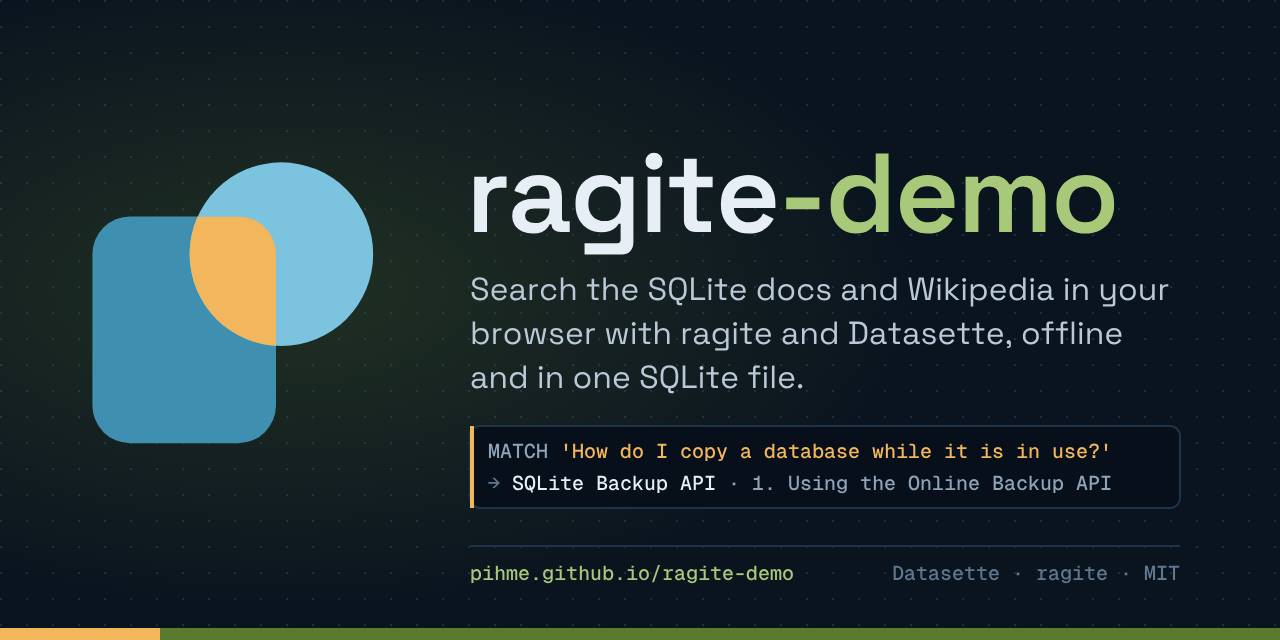
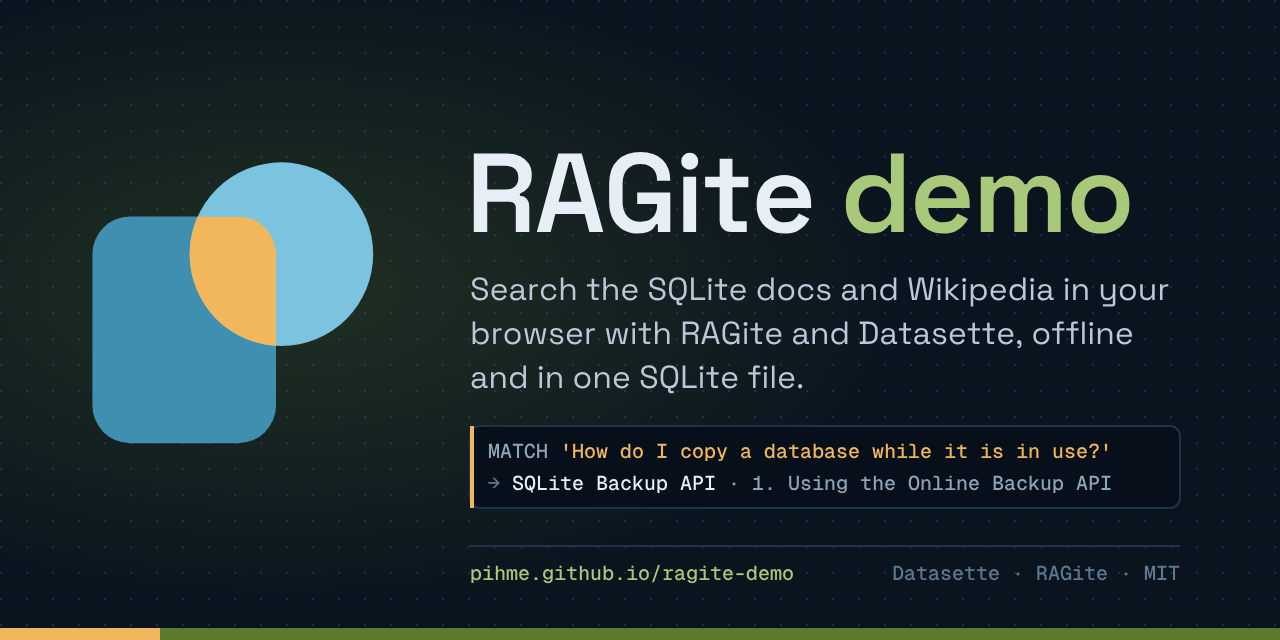
feat(data): add RAGite guides and Wikipedia articles on RAG and search (#9)
* feat(data): index the ragite user guide and tinkering guide

Add docs/guide.md and docs/tinkering.md to the ragite-docs collection and
move the pinned ragite commit to c1165ea, which has both files. Since the
0.3.0 release only docs, tests and CI changed, so the docs still match the
pinned libragite.so.

With the guide indexed, 'virtual table' limited to ragite-docs now finds a
passage, so the test, screenshot check and README use 'FTS5' to show the
source-filter limit (pihme/ragite#49) instead. The search page gets an
example question for the tinkering guide.

* feat(data): add Wikipedia articles on RAG, search and embeddings

Index 15 more pinned Wikipedia revisions so the demo can answer questions
about the topic ragite is built for: Retrieval-augmented generation (en, de),
Large language model, Information retrieval, Semantic search, Full-text
search, Inverted index, Okapi BM25, Tf-idf, Word embedding, Sentence
embedding, Cosine similarity, Vector database, Nearest neighbor search and
Hierarchical navigable small world. All are CC BY-SA 4.0 like the existing
articles and go through the same cleaning; DATA_SOURCES.md lists each
revision and now also says that math formulas are removed.

demo.db grows from 22 to 25 MB (8,751 chunks). The search page offers two
example questions for the new articles.

* feat(data): show the ragite docs titles as RAGite
[…]

Changed region(s): [[0.3438, 0.2188, 0.9062, 0.4062], [0.5312, 0.5, 0.875, 0.5625], [0.8125, 0.875, 0.8438, 0.9062]]

diff --git a/app/templates/pages/search.html b/app/templates/pages/search.html
@@ -1,6 +1,6 @@
 {% extends "base.html" %}
 
-{% block title %}Ask the docs · ragite-demo{% endblock %}
+{% block title %}Ask the docs · RAGite demo{% endblock %}
 
 {% block extra_head %}
 <link rel="stylesheet" href="{{ urls.path('/static/search.css') }}">
@@ -13,7 +13,7 @@
 <div class="rs" id="ragite-search" data-db="{{ urls.database('demo') }}">
   <div class="rs-hero">
     <h1 class="rs-title">Ask the docs</h1>
-    <p class="rs-lede">Hybrid search over the SQLite documentation, five Wikipedia articles and the ragite docs,
+    <p class="rs-lede">Hybrid search over the SQLite documentation, 20 Wikipedia articles and the RAGite docs,
       all in one SQLite file. The embeddings are computed on the CPU; no external AI service is called.</p>
   </div>
 
@@ -31,7 +31,7 @@
       <label class="rs-chip"><input type="radio" name="collection" value="" checked><span>All sources</span></label>
       <label class="rs-chip"><input type="radio" name="collection" value="sqlite-docs"><span>SQLite docs</span></label>
       <label class="rs-chip"><input type="radio" name="collection" value="wikipedia"><span>Wikipedia</span></label>
-      <label class="rs-chip"><input type="radio" name="collection" value="ragite-docs"><span>ragite docs</span></label>
+      <label class="rs-chip"><input type="radio" name="collection" value="ragite-docs"><span>RAGite docs</span></label>
     </fieldset>
   </form>
 
@@ -47,8 +47,11 @@
       <li><a href="?q=What+is+write-ahead+logging%3F"><span class="rs-ex-src">SQLite docs</span>What is write-ahead logging?</a></li>
       <li><a href="?q=change+the+output+mode+of+the+command+line+shell"><span class="rs-ex-src">SQLite docs</span>Change the output mode of the command-line shell</a></li>
       <li><a href="?q=Who+uses+B-trees+and+why%3F"><span class="rs-ex-src">Wikipedia</span>Who uses B-trees and why?</a></li>
+      <li><a href="?q=What+is+retrieval-augmented+generation%3F"><span class="rs-ex-src">Wikipedia</span>What is retrieval-augmented generation?</a></li>
+      <li><a href="?q=How+does+BM25+rank+documents%3F"><span class="rs-ex-src">Wikipedia</span>How does BM25 rank documents?</a></li>
       <li><a href="?q=Wie+gro%C3%9F+ist+die+SQLite-Bibliothek%3F&amp;collection=wikipedia"><span class="rs-ex-src">Wikipedia · German</span>Wie groß ist die SQLite-Bibliothek?</a></li>
-      <li><a href="?q=How+does+ragite+split+documents+into+chunks%3F"><span class="rs-ex-src">ragite docs</span>How does ragite split documents into chunks?</a></li>
+      <li><a href="?q=How+does+RAGite+split+documents+into+chunks%3F"><span class="rs-ex-src">RAGite docs</span>How does RAGite split documents into chunks?</a></li>
+      <li><a href="?q=How+do+I+add+a+new+document+type%3F"><span class="rs-ex-src">RAGite docs</span>How do I add a new document type?</a></li>
     </ul>
 
     <section class="rs-how" aria-labelledby="rs-how-h">
@@ -61,7 +64,7 @@
         <div class="rs-how-step"><span class="rs-how-ico rs-how-ico--hit" aria-hidden="true"></span><h3>Fused</h3>
           <p>Reciprocal Rank Fusion merges both rankings. A passage that is high in both comes first: that's the hit.</p></div>
       </div>
-      <p class="rs-how-foot">All of it is one query against ragite's <code>docs_chunks</code> table:
+      <p class="rs-how-foot">All of it is one query against RAGite's <code>docs_chunks</code> table:
         <code>WHERE docs_chunks MATCH 'your question'</code>. Every search links to its SQL.</p>
     </section>
   </div>
@@ -70,10 +73,10 @@
 
 {% block footer %}
 <div class="rs-foot">
-  Powered by <a href="https://datasette.io/">Datasette</a> and <a href="https://github.com/pihme/ragite">ragite</a>
+  Powered by <a href="https://datasette.io/">Datasette</a> and <a href="https://github.com/pihme/ragite">RAGite</a>
   · Data license: <a href="https://github.com/pihme/ragite-demo/blob/main/DATA_SOURCES.md">Mixed, see DATA_SOURCES.md</a>
-  (SQLite docs: public domain · Wikipedia: <a href="https://creativecommons.org/licenses/by-sa/4.0/">CC BY-SA 4.0</a>, authors in each article's history · ragite docs: MIT OR Apache-2.0)
-  · Data source: <a href="https://github.com/pihme/ragite-demo">ragite-demo</a>
+  (SQLite docs: public domain · Wikipedia: <a href="https://creativecommons.org/licenses/by-sa/4.0/">CC BY-SA 4.0</a>, authors in each article's history · RAGite docs: MIT OR Apache-2.0)
+  · Data source: <a href="https://github.com/pihme/ragite-demo">RAGite demo</a>
   · About: <a href="https://pihme.github.io/ragite-demo/">Project site</a>
 </div>
 {% endblock %}

diff --git a/app/static/search.js b/app/static/search.js
@@ -22,7 +22,7 @@
   // 1/61; one found by both scores at least 2/110. So score > 1/61 means "both rankings found it".
   const ONE_LIST_MAX = 1 / 61;
 
-  const COLLECTION_LABEL = { "sqlite-docs": "SQLite docs", wikipedia: "Wikipedia", "ragite-docs": "ragite docs" };
+  const COLLECTION_LABEL = { "sqlite-docs": "SQLite docs", wikipedia: "Wikipedia", "ragite-docs": "RAGite docs" };
 
   let cache = {};   // q -> { coll -> rows }
   let shown = PAGE;
@@ -97,10 +97,10 @@
     const link = '<a href="' + ISSUE_49 + '">ragite#49</a>';
     if (count < FEW) {
       return "<strong>" + (count ? "Only " + count + (count === 1 ? " passage" : " passages") : "No passages") +
-        " from " + name + " made it into ragite's top candidates.</strong> More may match: the source filter is applied " +
-        "after ragite has picked its best candidates from all sources. Search all sources, or rephrase the question (" + link + ").";
+        " from " + name + " made it into RAGite's top candidates.</strong> More may match: the source filter is applied " +
+        "after RAGite has picked its best candidates from all sources. Search all sources, or rephrase the question (" + link + ").";
     }
-    return "Filtered to " + name + ": ragite picks its best candidates from all sources first, so passages that rank lower " +
+    return "Filtered to " + name + ": RAGite picks its best candidates from all sources first, so passages that rank lower " +
       "overall are not shown here (" + link + ").";
   }
 

diff --git a/app/static/ragite-demo.js b/app/static/ragite-demo.js
@@ -15,8 +15,8 @@
     if (!nav || nav.querySelector(".rd-brand")) return;
     const brand = document.createElement("a");
     brand.className = "rd-brand"; brand.href = "/";
-    brand.innerHTML = MARK + '<span>ragite<span class="rd-suffix">-demo</span></span>';
-    brand.setAttribute("aria-label", "ragite-demo home");
+    brand.innerHTML = MARK + '<span>RAGite<span class="rd-suffix"> demo</span></span>';
+    brand.setAttribute("aria-label", "RAGite demo home");
     const sep = document.createElement("span"); sep.className = "rd-sep"; sep.setAttribute("aria-hidden", "true");
     nav.prepend(brand, sep);
     const crumbs = nav.querySelector(".crumbs");
@@ -33,7 +33,7 @@
   // Canned query pages use the whole SQL as <title>; use the visible heading instead.
   function title() {
     const h1 = document.querySelector("section.content h1");
-    if (h1 && document.title.length > 80) document.title = h1.textContent.trim() + " · ragite-demo";
+    if (h1 && document.title.length > 80) document.title = h1.textContent.trim() + " · RAGite demo";
   }
 
   // Home: "4 tables, 14 hidden tables" is storage noise from ragite's shadow tables.

diff --git a/tests/test_demo.py b/tests/test_demo.py
@@ -245,8 +245,8 @@ async def test_split_paragraph_pieces_both_stay(ds):
 async def test_source_filter_limit_is_real(ds):
     # Documents the limit the search page warns about (pihme/ragite#49): the filter runs after fusion.
     # When ragite fixes it, this test fails and the hint can go.
-    assert await rows(ds, "search", q="virtual table", collection="ragite-docs") == []
+    assert await rows(ds, "search", q="FTS5", collection="ragite-docs") == []
     resp = await ds.client.get("/demo.json", params={"sql": (
         "SELECT count(*) AS n FROM docs_chunks c JOIN doc_info i ON i.doc_id = c.doc_id "
-        "WHERE i.collection = 'ragite-docs' AND lower(c.chunk) LIKE '%virtual table%'"), "_shape": "array"})
+        "WHERE i.collection = 'ragite-docs' AND lower(c.chunk) LIKE '%fts5%'"), "_shape": "array"})
     assert resp.json()[0]["n"] > 0

diff --git a/tests/screenshot.py b/tests/screenshot.py
@@ -78,8 +78,8 @@ def check_page_helpers(page) -> None:
 
 
 def check_filter_hint(page, base: str, out: Path) -> None:
-    """'virtual table' limited to the ragite docs returns no rows (pihme/ragite#49); the page must say why."""
-    page.goto(base + "/search?q=virtual+table&collection=ragite-docs")
+    """'FTS5' limited to the ragite docs returns no rows (pihme/ragite#49); the page must say why."""
+    page.goto(base + "/search?q=FTS5&collection=ragite-docs")
     page.wait_for_selector("#rs-filter-hint:not([hidden])", timeout=30_000)
     hint = page.inner_text("#rs-filter-hint")
     page.screenshot(path=str(out / "search-filter-hint.png"), full_page=False)

diff --git a/README.md b/README.md
@@ -1,27 +1,27 @@
 <h1>
   <picture>
     <source media="(prefers-color-scheme: dark)" srcset="docs/assets/ragite-demo-readme-lockup-dark.svg">
-    <img alt="ragite-demo" src="docs/assets/ragite-demo-readme-lockup-universal.svg" width="400">
+    <img alt="RAGite demo" src="docs/assets/ragite-demo-readme-lockup-universal.svg" width="400">
   </picture>
 </h1>
 
-Search the SQLite docs and Wikipedia in your browser with [ragite](https://github.com/pihme/ragite) and [Datasette](https://datasette.io/), offline and in one SQLite file.
+Search the SQLite docs and Wikipedia in your browser with [RAGite](https://github.com/pihme/ragite) and [Datasette](https://datasette.io/), offline and in one SQLite file.
 
 [![ci](https://img.shields.io/github/actions/workflow/status/pihme/ragite-demo/ci.yml?branch=main&label=ci&style=flat-square)](https://github.com/pihme/ragite-demo/actions/workflows/ci.yml)
 [![license](https://img.shields.io/badge/license-MIT-5c7a2e?style=flat-square)](LICENSE)
-[![ragite](https://img.shields.io/badge/dynamic/json?url=https%3A%2F%2Fraw.githubusercontent.com%2Fpihme%2Fragite-demo%2Fmain%2Fdata%2Fsources.json&query=%24.ragite.version&prefix=v&label=ragite&color=2b6f8a&style=flat-square)](data/sources.json)
+[![RAGite](https://img.shields.io/badge/dynamic/json?url=https%3A%2F%2Fraw.githubusercontent.com%2Fpihme%2Fragite-demo%2Fmain%2Fdata%2Fsources.json&query=%24.ragite.version&prefix=v&label=RAGite&color=2b6f8a&style=flat-square)](data/sources.json)
 
-**[Website](https://pihme.github.io/ragite-demo/)** · [ragite](https://github.com/pihme/ragite) · [Data sources](DATA_SOURCES.md)
+**[Website](https://pihme.github.io/ragite-demo/)** · [RAGite](https://github.com/pihme/ragite) · [Data sources](DATA_SOURCES.md)
 
 ![The search page: a question about copying a live database, answered with passages from the SQLite Backup API docs](docs/search.png)
 
-ragite is a SQLite extension for retrieval: it splits documents into chunks, embeds them on the CPU and finds the best passages with a hybrid search (vector similarity plus BM25 full text). This demo indexes about 1.7 MB of freely licensed text and serves it with Datasette, so you get a search page without writing a web app, and the full SQL interface next to it.
+RAGite is a SQLite extension for retrieval: it splits documents into chunks, embeds them on the CPU and finds the best passages with a hybrid search (vector similarity plus BM25 full text). This demo indexes about 1.9 MB of freely licensed text and serves it with Datasette, so you get a search page without writing a web app, and the full SQL interface next to it.
 
 ## Requirements
 
-- **Linux x86-64.** ragite publishes release binaries for Linux only so far ([pihme/ragite#35](https://github.com/pihme/ragite/issues/35)). On macOS or Windows, use a Linux container or build ragite yourself.
+- **Linux x86-64.** RAGite publishes release binaries for Linux only so far ([pihme/ragite#35](https://github.com/pihme/ragite/issues/35)). On macOS or Windows, use a Linux container or build RAGite yourself.
 - Python 3.10+ whose `sqlite3` module can load extensions (true for most Linux builds; check with `python3 -c "import sqlite3; sqlite3.connect(':memory:').enable_load_extension(True)"`).
-- About 165 MB of disk: `libragite.so` is ~135 MB because the embedding model is built in; `demo.db` is ~22 MB.
+- About 165 MB of disk: `libragite.so` is ~135 MB because the embedding model is built in; `demo.db` is ~25 MB.
 
 ## Quickstart
 
@@ -46,7 +46,7 @@ Only the database, with Datasette's plain table and SQL views:
 datasette app/demo.db --load-extension ./libragite
 ```
 
-Pass the library path **without** `.so`: SQLite adds the suffix itself (see the ragite README). Already have a `libragite.so`? `scripts/build-demo-db --lib /path/to/libragite.so` uses it instead of downloading.
+Pass the library path **without** `.so`: SQLite adds the suffix itself (see the RAGite README). Already have a `libragite.so`? `scripts/build-demo-db --lib /path/to/libragite.so` uses it instead of downloading.
 
 ## What you can do
 
@@ -63,13 +63,13 @@ Pass the library path **without** `.so`: SQLite adds the suffix itself (see the 
 | `model` | `ragite_default_model()` and `ragite_table_model('docs')` | none |
 | `embed` | `ragite_embed('docs', :text, :role)`: dimensions and first bytes | none |
 
-**Rule for `search`** ([SPEC](SPEC.md) D9): A short hit (under 80 characters, usually a bare heading) gets the next chunks of the same document and section as context: chunks that start after it, whose heading path begins with the hit's heading path, and that have at least 40 characters; at most two, and only until the card holds 200 characters. Cards are then taken in score order from the best 60 hits, at most 20. Each displayed piece (the hit, and each context chunk) is a span of the document; a span counts as already shown when at least half of its length lies inside spans displayed by better cards of the same document. A hit is dropped when its own span is already shown (for example the paragraph under a heading card), when it is a short hit whose context is all shown already (a heading whose paragraph is on screen), or when its text, context included, equals a better card's text after trimming and lower-casing (the same sentence on two pages). Context that is already shown is left out of a kept card. Neighbouring pieces of a split paragraph share only ragite's short overlap, so both stay. The `spans` column lists the displayed spans.
+**Rule for `search`** ([SPEC](SPEC.md) D9): A short hit (under 80 characters, usually a bare heading) gets the next chunks of the same document and section as context: chunks that start after it, whose heading path begins with the hit's heading path, and that have at least 40 characters; at most two, and only until the card holds 200 characters. Cards are then taken in score order from the best 60 hits, at most 20. Each displayed piece (the hit, and each context chunk) is a span of the document; a span counts as already shown when at least half of its length lies inside spans displayed by better cards of the same document. A hit is dropped when its own span is already shown (for example the paragraph under a heading card), when it is a short hit whose context is all shown already (a heading whose paragraph is on screen), or when its text, context included, equals a better card's text after trimming and lower-casing (the same sentence on two pages). Context that is already shown is left out of a kept card. Neighbouring pieces of a split paragraph share only RAGite's short overlap, so both stay. The `spans` column lists the displayed spans.
 
-All of them use only ragite's public interface: the Document table, its `_chunks` companion and the `ragite_*` functions. `collection` is empty for all sources, or one of `sqlite-docs`, `wikipedia`, `ragite-docs`.
+All of them use only RAGite's public interface: the Document table, its `_chunks` companion and the `ragite_*` functions. `collection` is empty for all sources, or one of `sqlite-docs`, `wikipedia`, `ragite-docs`.
 
-**Known limit of the source filter** ([pihme/ragite#49](https://github.com/pihme/ragite/issues/49)): ragite takes a fixed number of best candidates from all sources, fuses them, and only then does the query keep the rows of the chosen source. A source that ranks lower overall can come back with few or no passages even though it has matching text; for example `virtual table` limited to `ragite-docs` returns nothing, although 18 ragite-docs chunks contain that phrase. The search page says so whenever a source filter is active. Searching all sources, or rephrasing, helps until ragite lets filters reach past the candidate depth.
+**Known limit of the source filter** ([pihme/ragite#49](https://github.com/pihme/ragite/issues/49)): RAGite takes a fixed number of best candidates from all sources, fuses them, and only then does the query keep the rows of the chosen source. A source that ranks lower overall can come back with few or no passages even though it has matching text; for example `FTS5` limited to `ragite-docs` returns nothing, although 11 ragite-docs chunks contain that word. The search page says so whenever a source filter is active. Searching all sources, or rephrasing, helps until RAGite lets filters reach past the candidate depth.
 
-**More SQL**: [examples/](examples/) has runnable `.sql` files for every part of ragite's public interface: create a table, insert each format, update and delete, search documents and chunks, join a chunk to its document, show the model, embed text.
+**More SQL**: [examples/](examples/) has runnable `.sql` files for every part of RAGite's public interface: create a table, insert each format, update and delete, search documents and chunks, join a chunk to its document, show the model, embed text.
 
 **Raw SQL** (`/demo?sql=...`), for example:
 
@@ -86,18 +86,18 @@ SQLite normally runs the search first and then looks up `doc_info` by `doc_id`. 
 
 | Collection | Documents | Cleaned text | License |
 | --- | --- | --- | --- |
-| SQLite documentation 3.54.1 (subset, incl. the `sqlite3` CLI page) | 74 | 1.54 MB | Public domain |
-| Wikipedia: SQLite (en, de), SQL, Relational database, B-tree | 5 | 0.11 MB | CC BY-SA 4.0 |
-| ragite README, SPEC, GLOSSARY | 3 | 0.05 MB | MIT OR Apache-2.0 |
+| SQLite documentation 3.54.1 (subset, incl. the `sqlite3` CLI page) | 74 | 1.52 MB | Public domain |
+| Wikipedia: SQLite (en, de), SQL, Relational database, B-tree; Retrieval-augmented generation (en, de), Large language model, Information retrieval, Semantic search, Full-text search, Inverted index, Okapi BM25, Tf–idf, Word embedding, Sentence embedding, Cosine similarity, Vector database, Nearest neighbor search, Hierarchical navigable small world | 20 | 0.30 MB | CC BY-SA 4.0 |
+| RAGite README, SPEC, GLOSSARY, user guide, tinkering guide | 5 | 0.09 MB | MIT OR Apache-2.0 |
 
-That is 7,671 chunks and a 22 MB `demo.db` (2 KB of vector per chunk). ragite makes every heading, list item and table cell its own chunk, so the build joins each table row into one paragraph (cells separated by ` | `) and each list of short items into one paragraph (items separated by `; `), and turns no-break spaces into plain spaces. Headings still become short chunks of their own and can rank high for one-word queries. Exact sources, pinned revisions, the cleaning steps and attribution: [DATA_SOURCES.md](DATA_SOURCES.md).
+That is 8,751 chunks and a 25 MB `demo.db` (2 KB of vector per chunk). RAGite makes every heading, list item and table cell its own chunk, so the build joins each table row into one paragraph (cells separated by ` | `) and each list of short items into one paragraph (items separated by `; `), and turns no-break spaces into plain spaces. Headings still become short chunks of their own and can rank high for one-word queries. Exact sources, pinned revisions, the cleaning steps and attribution: [DATA_SOURCES.md](DATA_SOURCES.md).
 
-`demo.db` is not committed: it is a 22 MB binary that the build script recreates from pinned inputs in a few seconds, and keeping the Wikipedia text out of the repository keeps the code under one license. CI uploads each build as an artifact (`demo-db`, with `DATA_SOURCES.md`).
+`demo.db` is not committed: it is a 25 MB binary that the build script recreates from pinned inputs in a few seconds, and keeping the Wikipedia text out of the repository keeps the code under one license. CI uploads each build as an artifact (`demo-db`, with `DATA_SOURCES.md`).
 
 ## Limits
 
 - The built-in model (potion-retrieval-32M) is trained for English. In this small set, German questions still find the German Wikipedia article, but expect weaker ranking for non-English text in general.
-- ragite's full-text side matches the query as one phrase, so long questions usually rank by vector similarity alone; short keyword queries get both.
+- RAGite's full-text side matches the query as one phrase, so long questions usually rank by vector similarity alone; short keyword queries get both.
 - The SQLite docs link to sqlite.org, which may already describe a newer version than 3.54.1.
 
 ## Tests

diff --git a/SPEC.md b/SPEC.md
@@ -2,18 +2,18 @@
 
 ## Goal
 
-Show what ragite does in a few minutes, with no code to write: one command builds a SQLite file from freely licensed text, one command serves it with a search page and the full SQL interface.
+Show what RAGite does in a few minutes, with no code to write: one command builds a SQLite file from freely licensed text, one command serves it with a search page and the full SQL interface.
 
 ## Decisions
 
-- **D1 Datasette as the base.** Datasette loads SQLite extensions, so ragite's `MATCH` queries run in its SQL views and JSON API. The demo adds canned queries (`app/metadata.yml`) and one custom page (`app/templates/pages/search.html`) that calls them; no own web server.
-- **D2 Public interface only.** Every search is ragite's hybrid `MATCH` on `docs` (documents) or `docs_chunks` (chunks); other queries use those two tables and the `ragite_*` functions. No vector-only or full-text-only mode and no queries against ragite's storage tables (`docs_vec`, `docs_fts`, ...): they are not part of the ragite 1.0 spec.
-- **D3 Data.** SQLite documentation (public domain, a 74-page subset of the pinned doc archive), five Wikipedia articles (CC BY-SA 4.0, pinned revisions) and the ragite docs (MIT OR Apache-2.0, pinned commit). Only freely licensed data; no benchmark sets.
-- **D4 demo.db is built, not committed.** It is ~22 MB and rebuilt from pinned inputs in seconds. CI uploads it as an artifact with `DATA_SOURCES.md`.
-- **D5 HTML cleaning before indexing.** Page chrome, navigation, scripts, styles, SVG diagrams, infoboxes, footnote markers and link-only sections are removed so chunks hold prose. Text is not rewritten, with three layout exceptions so ragite does not cut near-empty chunks: each table row becomes one paragraph (cells joined by ` | `), each list whose items are all short (at most 100 characters, no nested blocks) becomes one paragraph (items joined by `; `), and Unicode spaces such as U+00A0 become plain spaces.
-- **D6 Platform.** Linux x86-64 only, until ragite ships other release binaries (pihme/ragite#35).
+- **D1 Datasette as the base.** Datasette loads SQLite extensions, so RAGite's `MATCH` queries run in its SQL views and JSON API. The demo adds canned queries (`app/metadata.yml`) and one custom page (`app/templates/pages/search.html`) that calls them; no own web server.
+- **D2 Public interface only.** Every search is RAGite's hybrid `MATCH` on `docs` (documents) or `docs_chunks` (chunks); other queries use those two tables and the `ragite_*` functions. No vector-only or full-text-only mode and no queries against RAGite's storage tables (`docs_vec`, `docs_fts`, ...): they are not part of the RAGite 1.0 spec.
+- **D3 Data.** SQLite documentation (public domain, a 74-page subset of the pinned doc archive), 20 Wikipedia articles (CC BY-SA 4.0, pinned revisions: SQLite and databases, plus retrieval-augmented generation, search and embeddings) and the RAGite docs (MIT OR Apache-2.0, pinned commit). Only freely licensed data; no benchmark sets.
+- **D4 demo.db is built, not committed.** It is ~25 MB and rebuilt from pinned inputs in seconds. CI uploads it as an artifact with `DATA_SOURCES.md`.
+- **D5 HTML cleaning before indexing.** Page chrome, navigation, scripts, styles, SVG diagrams, infoboxes, footnote markers and link-only sections are removed so chunks hold prose. Text is not rewritten, with three layout exceptions so RAGite does not cut near-empty chunks: each table row becomes one paragraph (cells joined by ` | `), each list whose items are all short (at most 100 characters, no nested blocks) becomes one paragraph (items joined by `; `), and Unicode spaces such as U+00A0 become plain spaces.
+- **D6 Platform.** Linux x86-64 only, until RAGite ships other release binaries (pihme/ragite#35).
 - **D7 License.** Code MIT; data keeps its own license.
 - **D8 Examples.** `examples/` holds runnable SQL for the public interface. Read-only examples are also canned queries; writes are not, so the served `demo.db` cannot be changed from the browser.
-- **D9 Search results: context and each passage once.** The `search` query (`app/metadata.yml`), and with it the search page, works in SQL on `docs_chunks` and `doc_info` only. A short hit (under 80 characters, usually a bare heading) gets the next chunks of the same document and section as context: chunks that start after it, whose heading path begins with the hit's heading path, and that have at least 40 characters; at most two, and only until the card holds 200 characters. Cards are then taken in score order from the best 60 hits, at most 20. Each displayed piece (the hit, and each context chunk) is a span of the document; a span counts as already shown when at least half of its length lies inside spans displayed by better cards of the same document. A hit is dropped when its own span is already shown (for example the paragraph under a heading card), when it is a short hit whose context is all shown already (a heading whose paragraph is on screen), or when its text, context included, equals a better card's text after trimming and lower-casing (the same sentence on two pages). Context that is already shown is left out of a kept card. Neighbouring pieces of a split paragraph share only ragite's short overlap, so both stay. The `spans` column lists the displayed spans.
-- **D10 Search page presentation.** The page shows the `search` rows as cards, five at first and five more per "Show more", all from the one request (at most 20 rows, D9). Source chips (all, SQLite docs, Wikipedia, ragite docs) set the `collection` parameter; only the selected source is fetched, and results are kept per question and source. When a source is selected, the page explains the filter limit (pihme/ragite#49). Relevance is shown as a bar relative to the best card of the search, labelled Best match (the first card), Very close (at least 95 %), Close (at least 85 %) or Related; the raw RRF score is in the tooltip. A card whose score is above 1/61 is marked "meaning + keywords": with k = 60 only a passage found by both rankings can score that high. Query words are highlighted as whole words: a word must start with the term ("vacuum" marks `auto_vacuum` and `VACUUMs`, not `xvacuum`), and marks separated only by a space or hyphen merge. Each card links to the source, its `doc_info` row and its `docs_chunks` row (`chunk_id` from the `search` query).
+- **D9 Search results: context and each passage once.** The `search` query (`app/metadata.yml`), and with it the search page, works in SQL on `docs_chunks` and `doc_info` only. A short hit (under 80 characters, usually a bare heading) gets the next chunks of the same document and section as context: chunks that start after it, whose heading path begins with the hit's heading path, and that have at least 40 characters; at most two, and only until the card holds 200 characters. Cards are then taken in score order from the best 60 hits, at most 20. Each displayed piece (the hit, and each context chunk) is a span of the document; a span counts as already shown when at least half of its length lies inside spans displayed by better cards of the same document. A hit is dropped when its own span is already shown (for example the paragraph under a heading card), when it is a short hit whose context is all shown already (a heading whose paragraph is on screen), or when its text, context included, equals a better card's text after trimming and lower-casing (the same sentence on two pages). Context that is already shown is left out of a kept card. Neighbouring pieces of a split paragraph share only RAGite's short overlap, so both stay. The `spans` column lists the displayed spans.
+- **D10 Search page presentation.** The page shows the `search` rows as cards, five at first and five more per "Show more", all from the one request (at most 20 rows, D9). Source chips (all, SQLite docs, Wikipedia, RAGite docs) set the `collection` parameter; only the selected source is fetched, and results are kept per question and source. When a source is selected, the page explains the filter limit (pihme/ragite#49). Relevance is shown as a bar relative to the best card of the search, labelled Best match (the first card), Very close (at least 95 %), Close (at least 85 %) or Related; the raw RRF score is in the tooltip. A card whose score is above 1/61 is marked "meaning + keywords": with k = 60 only a passage found by both rankings can score that high. Query words are highlighted as whole words: a word must start with the term ("vacuum" marks `auto_vacuum` and `VACUUMs`, not `xvacuum`), and marks separated only by a space or hyphen merge. Each card links to the source, its `doc_info` row and its `docs_chunks` row (`chunk_id` from the `search` query).
 - **D11 Look and feel without template overrides.** Datasette's own pages are restyled by one global stylesheet and one small script (`app/static/ragite-demo.css`, `ragite-demo.js`, via `extra_css_urls` and `extra_js_urls`); the only template is `pages/search.html`. No `base.html` override and no plugins, so Datasette upgrades need no template upkeep; the header navigation is added by the script, and without JavaScript the pages are the restyled Datasette pages. Dark only (`color-scheme: dark`): there is no light variant and no `prefers-color-scheme` switch. Fonts (Space Grotesk, Geist, Geist Mono, SIL OFL 1.1) are Latin subsets served from `app/static/fonts/` with their licences; no third-party requests. The footer keeps "Powered by Datasette". Asset paths are absolute (`/static/...`): the demo is served at the root, not under a `base_url` prefix.

diff --git a/DATA_SOURCES.md b/DATA_SOURCES.md
@@ -24,17 +24,32 @@ Text from Wikipedia, the free encyclopedia, licensed under the [Creative Commons
 | SQL | en | [1374625236](https://en.wikipedia.org/w/index.php?title=SQL&oldid=1374625236) | [history](https://en.wikipedia.org/w/index.php?title=SQL&action=history) |
 | Relational database | en | [1375508962](https://en.wikipedia.org/w/index.php?title=Relational_database&oldid=1375508962) | [history](https://en.wikipedia.org/w/index.php?title=Relational_database&action=history) |
 | B-tree | en | [1377462701](https://en.wikipedia.org/w/index.php?title=B-tree&oldid=1377462701) | [history](https://en.wikipedia.org/w/index.php?title=B-tree&action=history) |
+| Retrieval-augmented generation | en | [1377227095](https://en.wikipedia.org/w/index.php?title=Retrieval-augmented_generation&oldid=1377227095) | [history](https://en.wikipedia.org/w/index.php?title=Retrieval-augmented_generation&action=history) |
+| Retrieval-Augmented Generation | de | [270780895](https://de.wikipedia.org/w/index.php?title=Retrieval-Augmented_Generation&oldid=270780895) | [history](https://de.wikipedia.org/w/index.php?title=Retrieval-Augmented_Generation&action=history) |
+| Large language model | en | [1380435450](https://en.wikipedia.org/w/index.php?title=Large_language_model&oldid=1380435450) | [history](https://en.wikipedia.org/w/index.php?title=Large_language_model&action=history) |
+| Information retrieval | en | [1375036430](https://en.wikipedia.org/w/index.php?title=Information_retrieval&oldid=1375036430) | [history](https://en.wikipedia.org/w/index.php?title=Information_retrieval&action=history) |
+| Semantic search | en | [1376135669](https://en.wikipedia.org/w/index.php?title=Semantic_search&oldid=1376135669) | [history](https://en.wikipedia.org/w/index.php?title=Semantic_search&action=history) |
+| Full-text search | en | [1364195936](https://en.wikipedia.org/w/index.php?title=Full-text_search&oldid=1364195936) | [history](https://en.wikipedia.org/w/index.php?title=Full-text_search&action=history) |
+| Inverted index | en | [1354610034](https://en.wikipedia.org/w/index.php?title=Inverted_index&oldid=1354610034) | [history](https://en.wikipedia.org/w/index.php?title=Inverted_index&action=history) |
+| Okapi BM25 | en | [1372301996](https://en.wikipedia.org/w/index.php?title=Okapi_BM25&oldid=1372301996) | [history](https://en.wikipedia.org/w/index.php?title=Okapi_BM25&action=history) |
+| Tf–idf | en | [1380707612](https://en.wikipedia.org/w/index.php?title=Tf%E2%80%93idf&oldid=1380707612) | [history](https://en.wikipedia.org/w/index.php?title=Tf%E2%80%93idf&action=history) |
+| Word embedding | en | [1374850731](https://en.wikipedia.org/w/index.php?title=Word_embedding&oldid=1374850731) | [history](https://en.wikipedia.org/w/index.php?title=Word_embedding&action=history) |
+| Sentence embedding | en | [1380359878](https://en.wikipedia.org/w/index.php?title=Sentence_embedding&oldid=1380359878) | [history](https://en.wikipedia.org/w/index.php?title=Sentence_embedding&action=history) |
+| Cosine similarity | en | [1378075969](https://en.wikipedia.org/w/index.php?title=Cosine_similarity&oldid=1378075969) | [history](https://en.wikipedia.org/w/index.php?title=Cosine_similarity&action=history) |
+| Vector database | en | [1374243120](https://en.wikipedia.org/w/index.php?title=Vector_database&oldid=1374243120) | [history](https://en.wikipedia.org/w/index.php?title=Vector_database&action=history) |
+| Nearest neighbor search | en | [1372424608](https://en.wikipedia.org/w/index.php?title=Nearest_neighbor_search&oldid=1372424608) | [history](https://en.wikipedia.org/w/index.php?title=Nearest_neighbor_search&action=history) |
+| Hierarchical navigable small world | en | [1369131893](https://en.wikipedia.org/w/index.php?title=Hierarchical_navigable_small_world&oldid=1369131893) | [history](https://en.wikipedia.org/w/index.php?title=Hierarchical_navigable_small_world&action=history) |
 
 - Retrieved through the MediaWiki API (`action=parse&oldid=<revision>`), so the text is the pinned revision. Templates are expanded by Wikipedia at download time, so the rendered markup may drift slightly when a template changes later.
-- Changes: infoboxes, images, navigation boxes, edit links, footnote markers and the sections that only hold links or citations (for example "See also", "References", "External links"; "Weblinks", "Einzelnachweise" in German) are removed. Table rows and lists of short items are joined into paragraphs and no-break spaces become plain spaces, as for the SQLite documentation. The remaining text is unchanged and is split into chunks by ragite. These changes are an adaptation under CC BY-SA 4.0; the adapted text in `demo.db` is under the same license.
+- Changes: infoboxes, images, math formulas, navigation boxes, edit links, footnote markers and the sections that only hold links or citations (for example "See also", "References", "External links"; "Weblinks", "Einzelnachweise" in German) are removed. Table rows and lists of short items are joined into paragraphs and no-break spaces become plain spaces, as for the SQLite documentation. The remaining text is unchanged and is split into chunks by RAGite. These changes are an adaptation under CC BY-SA 4.0; the adapted text in `demo.db` is under the same license.
 - Images are not included.
 
-## 3. ragite documentation (MIT OR Apache-2.0)
+## 3. RAGite documentation (MIT OR Apache-2.0)
 
-- Files: `README.md`, `SPEC.md`, `GLOSSARY.md` from [pihme/ragite](https://github.com/pihme/ragite) at commit [`ede2d57`](https://github.com/pihme/ragite/tree/ede2d57e16ad82027fb8c968d8828d035455b7b4).
-- License: `MIT OR Apache-2.0`, Copyright (c) 2026 ragite contributors ([LICENSE-MIT](https://github.com/pihme/ragite/blob/ede2d57e16ad82027fb8c968d8828d035455b7b4/LICENSE-MIT), [LICENSE-APACHE](https://github.com/pihme/ragite/blob/ede2d57e16ad82027fb8c968d8828d035455b7b4/LICENSE-APACHE)).
+- Files: `README.md`, `SPEC.md`, `GLOSSARY.md`, the user guide `docs/guide.md` and the tinkering guide `docs/tinkering.md` from [pihme/ragite](https://github.com/pihme/ragite) at commit [`c1165ea`](https://github.com/pihme/ragite/tree/c1165ead6ffe26d21e0d4d378d0273e1d64e670d). The commit is newer than the RAGite 0.3.0 release the demo runs; the changes since that release touch only docs, tests and CI, so the files describe the release's behaviour.
+- License: `MIT OR Apache-2.0`, Copyright (c) 2026 ragite contributors ([LICENSE-MIT](https://github.com/pihme/ragite/blob/c1165ead6ffe26d21e0d4d378d0273e1d64e670d/LICENSE-MIT), [LICENSE-APACHE](https://github.com/pihme/ragite/blob/c1165ead6ffe26d21e0d4d378d0273e1d64e670d/LICENSE-APACHE)).
 - Changes: none; indexed as Markdown.
 
 ## Not included
 
-The benchmark datasets used by ragite (SciFact, FiQA and others) are not part of this demo: SciFact is licensed for noncommercial use only, and FiQA's license is unclear.
+The benchmark datasets used by RAGite (SciFact, FiQA and others) are not part of this demo: SciFact is licensed for noncommercial use only, and FiQA's license is unclear.

diff --git a/THIRD_PARTY_NOTICES.md b/THIRD_PARTY_NOTICES.md
@@ -19,14 +19,14 @@ See [DATA_SOURCES.md](DATA_SOURCES.md) for the exact sources, revisions, changes
 | Data | License |
 | --- | --- |
 | SQLite documentation 3.54.1 (subset) | Public domain |
-| Wikipedia articles (5, pinned revisions) | CC BY-SA 4.0 |
-| ragite README, SPEC, GLOSSARY | MIT OR Apache-2.0 |
+| Wikipedia articles (20, pinned revisions) | CC BY-SA 4.0 |
+| RAGite README, SPEC, GLOSSARY, user guide, tinkering guide | MIT OR Apache-2.0 |
 
 ## Programs used (run, not included)
 
 | Name | Version | License | Used for |
 | --- | --- | --- | --- |
-| [ragite](https://github.com/pihme/ragite) `libragite.so` | 0.3.0 | MIT OR Apache-2.0 | SQLite extension that chunks, embeds and searches. Downloaded from the GitHub release and checked by SHA-256. It bundles SQLite, sqlite-vec, the potion-retrieval-32M model (MIT) and other components; their notices are in the release's [THIRD_PARTY_NOTICES.md](https://github.com/pihme/ragite/releases/download/ragite/v0.3.0/THIRD_PARTY_NOTICES.md). |
+| [RAGite](https://github.com/pihme/ragite) `libragite.so` | 0.3.0 | MIT OR Apache-2.0 | SQLite extension that chunks, embeds and searches. Downloaded from the GitHub release and checked by SHA-256. It bundles SQLite, sqlite-vec, the potion-retrieval-32M model (MIT) and other components; their notices are in the release's [THIRD_PARTY_NOTICES.md](https://github.com/pihme/ragite/releases/download/ragite/v0.3.0/THIRD_PARTY_NOTICES.md). |
 | [Datasette](https://datasette.io/) | 0.65.5 | Apache-2.0 | Web interface and JSON API (`requirements.txt`). |
 | [Python](https://www.python.org/) | 3.10+ | PSF-2.0 | Build script (standard library only) and tests. |
 

diff --git a/examples/README.md b/examples/README.md
@@ -1,6 +1,6 @@
 # SQL examples
 
-Runnable examples of ragite's public SQL interface (v0.3.0, the version 1 interface). They use only the Document table, its `_chunks` companion and the `ragite_*` functions, never ragite's storage tables. Run them from the repository root, next to `libragite.so`; CI runs every file (`scripts/run-examples` and `tests/test_examples.py`).
+Runnable examples of RAGite's public SQL interface (v0.3.0, the version 1 interface). They use only the Document table, its `_chunks` companion and the `ragite_*` functions, never RAGite's storage tables. Run them from the repository root, next to `libragite.so`; CI runs every file (`scripts/run-examples` and `tests/test_examples.py`).
 
 ## On a new, empty database
 
